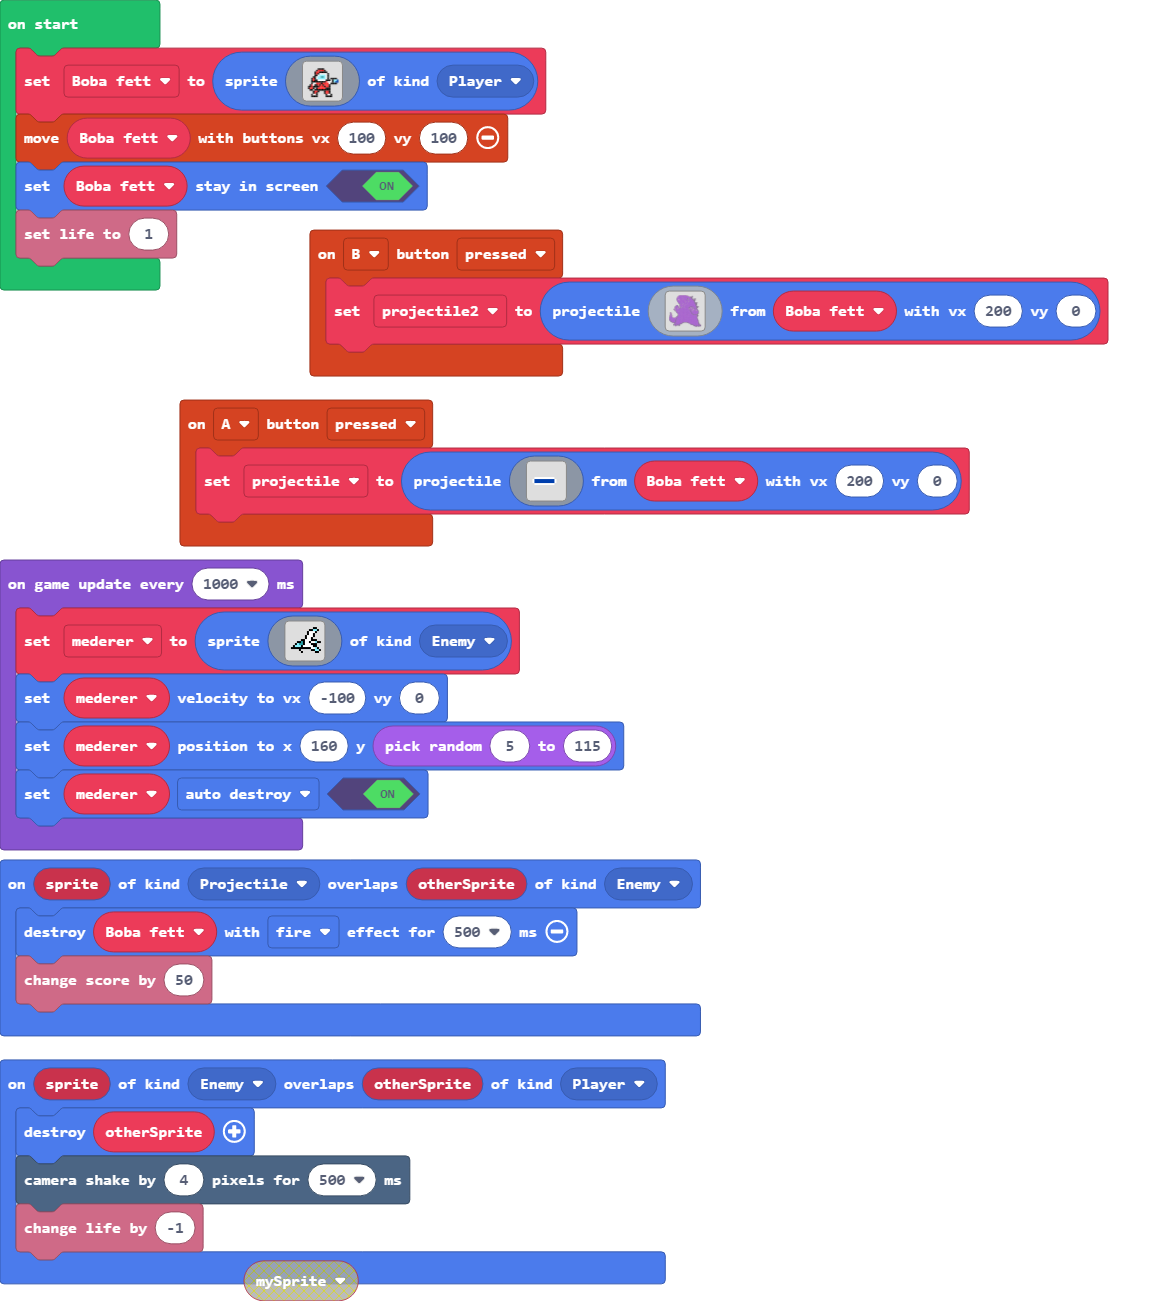
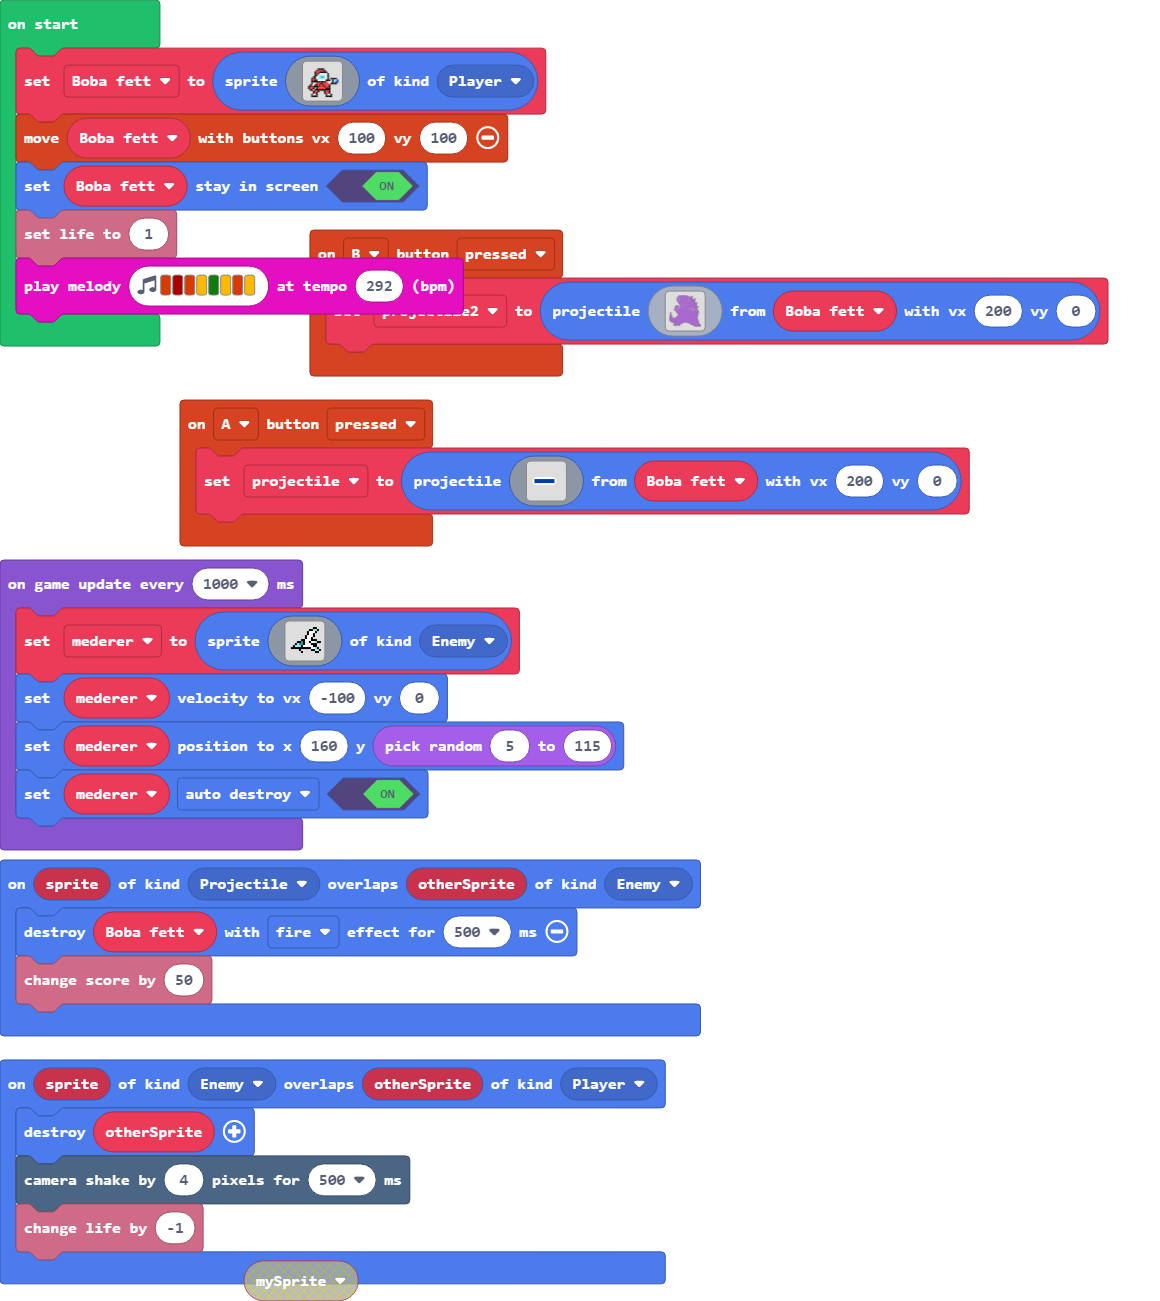
Update main.blocks, main.ts

Changed region(s): [[0.0, 0.1845, 0.4034, 0.2767]]

diff --git a/main.ts b/main.ts
@@ -136,6 +136,7 @@ Boba_fett = sprites.create(img`
 controller.moveSprite(Boba_fett, 100, 100)
 Boba_fett.setStayInScreen(true)
 info.setLife(1)
+music.playMelody("B C5 B A G A B A ", 292)
 game.onUpdateInterval(1000, function () {
     mederer = sprites.create(img`
         . . . . . . . . . . . . . . . . 
